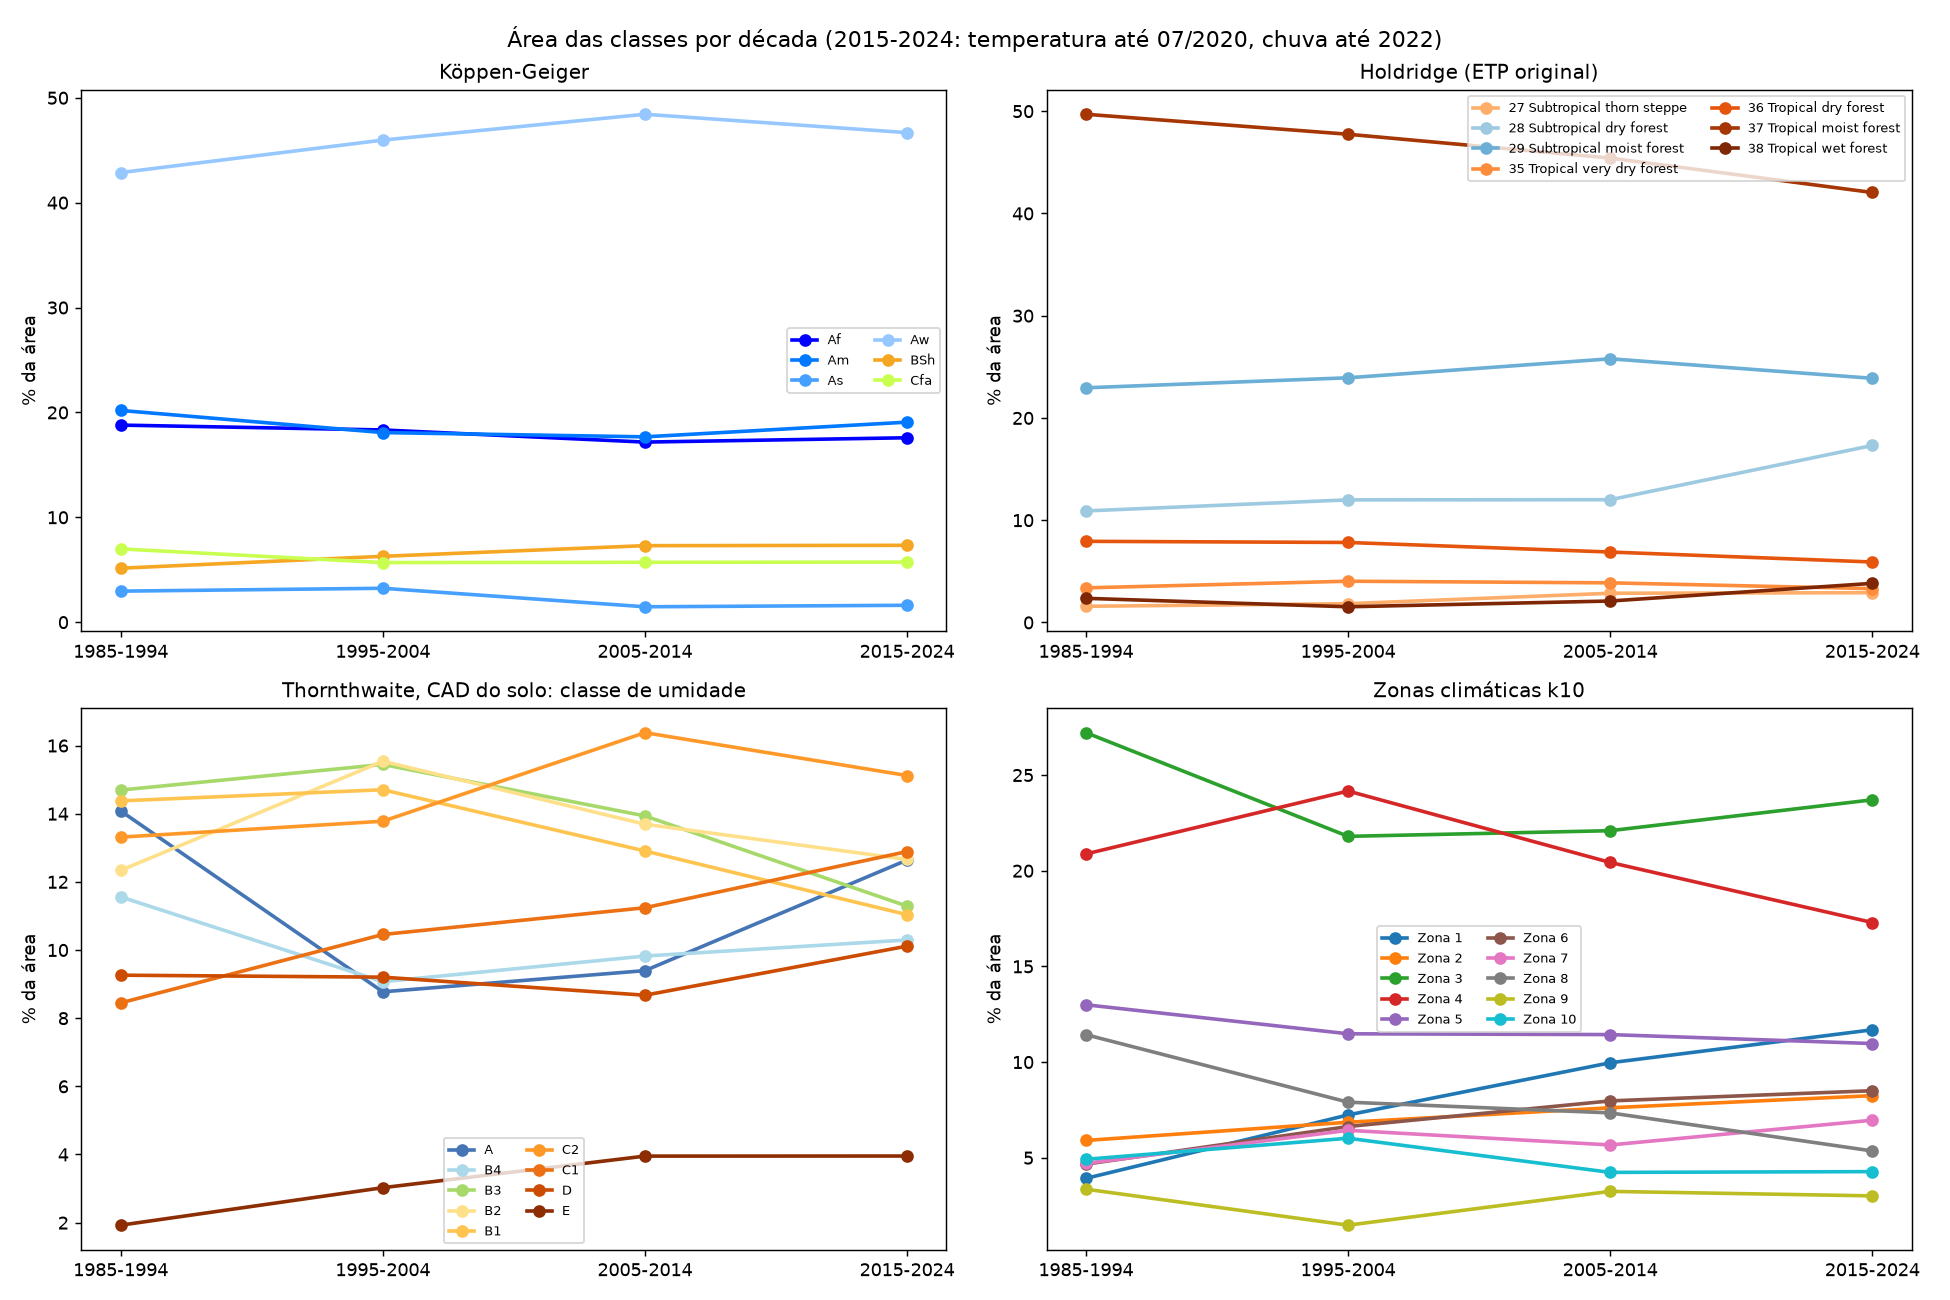
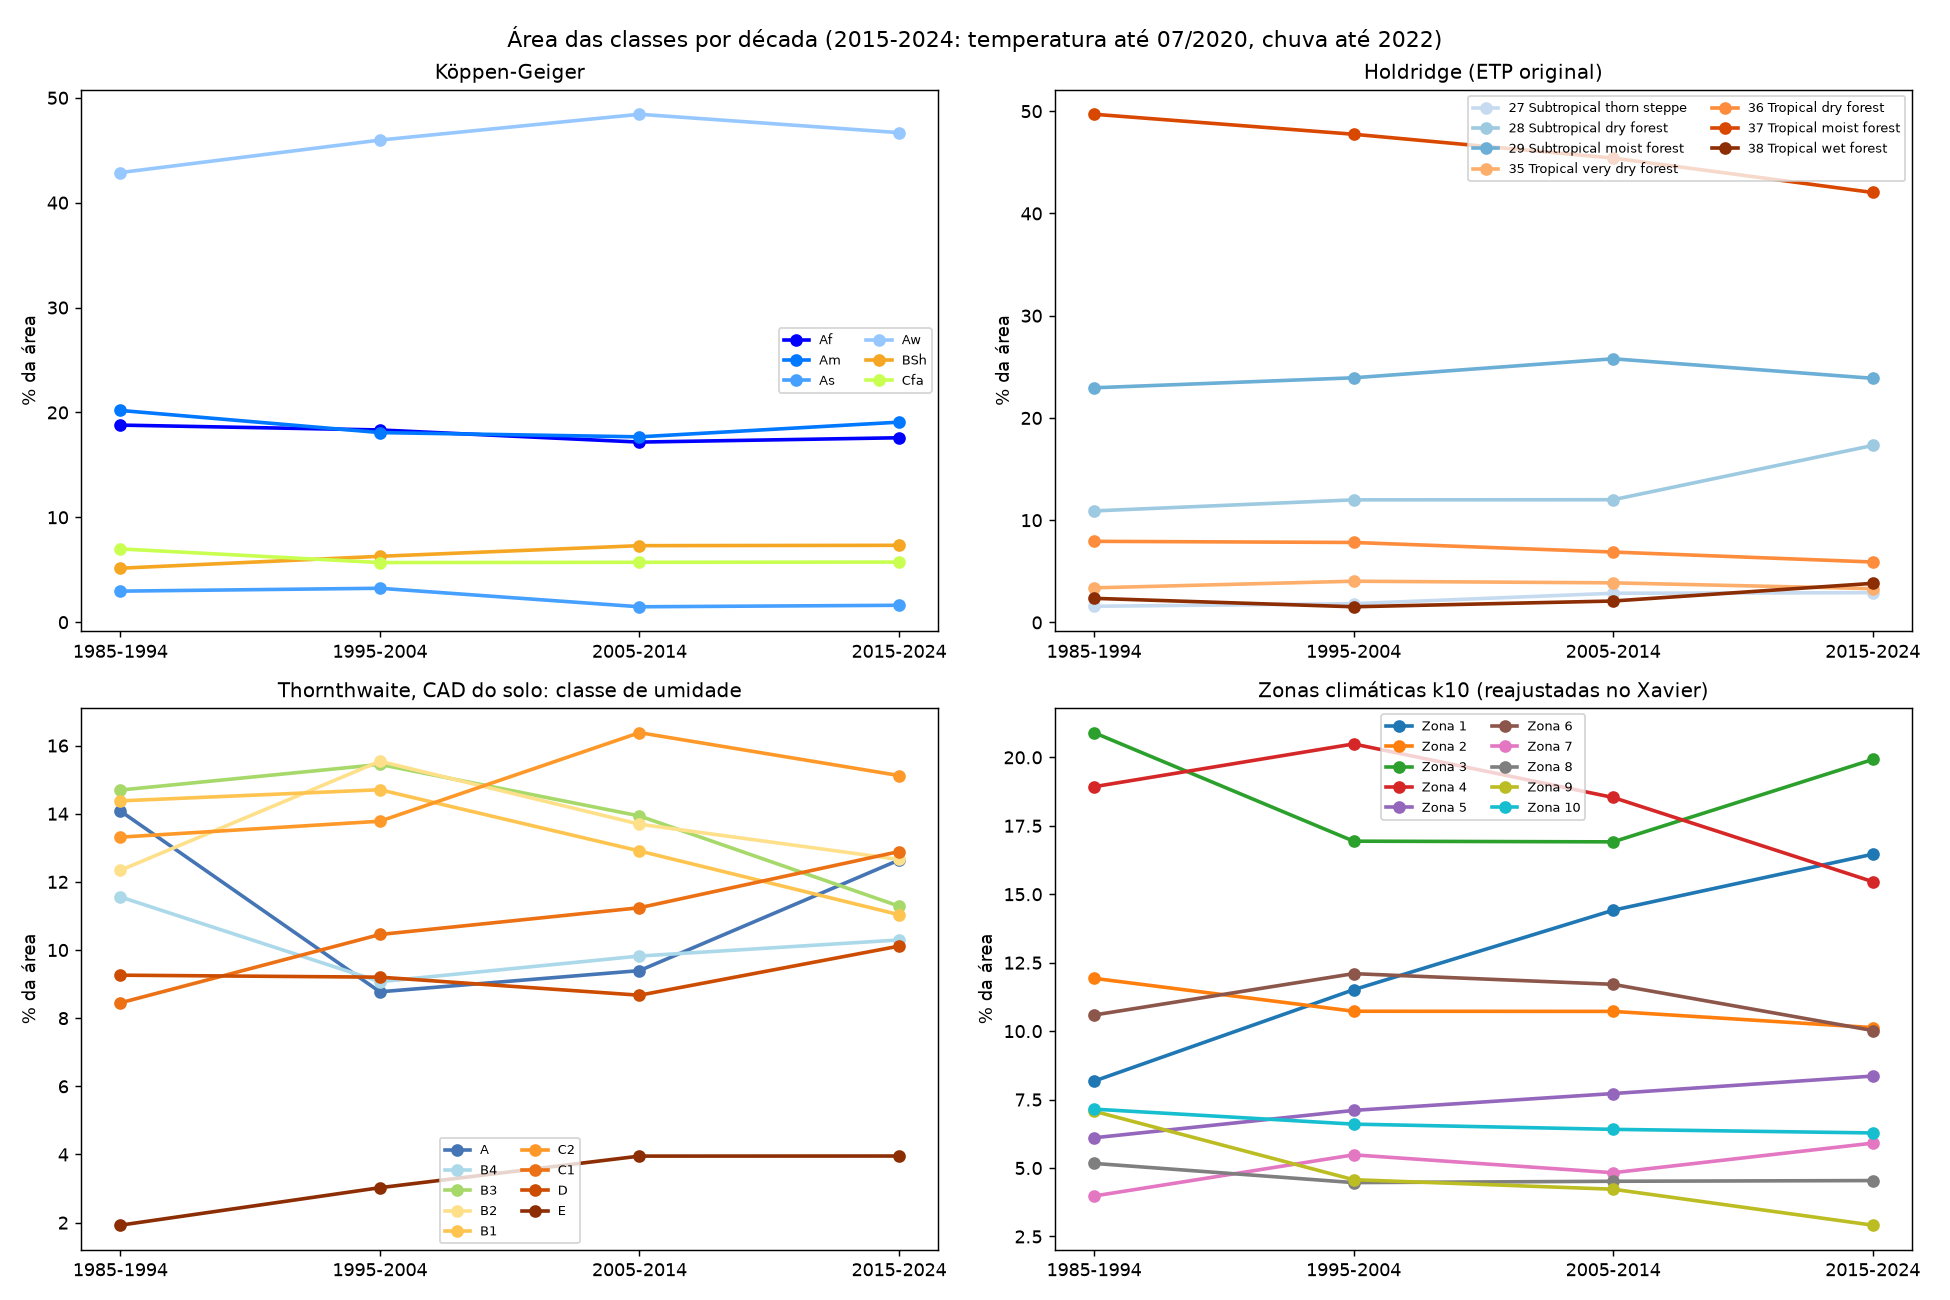
climas_tempo: k10 reajustado no Xavier 1991-2020; paleta do Holdridge por faixa termica

diff --git a/climas_tempo/codigo/classificar.py b/climas_tempo/codigo/classificar.py
@@ -11,8 +11,11 @@ relatório v1, aqui estendido a todos os sistemas; a janela tem ~33 km, no CHELS
     holdridge     classificacao_holdridge_grade(T, P, lat), ETP original  -> id 1-38 (HOLDRIDGE_ZONAS_EN)
     thornthwaite  classificacao_thornthwaite_grade(P, ETo, lat, CAD do solo) -> umidade (1-9) e subtipo (1-10);
                   código L2 = 100 x umidade + subtipo
-    k10           centróides de corelacao/codigo/zonas_clima.py nas 9 variáveis do clima contínuo
-                  (T, P, ETo e balanço hídrico com CAD 100, como no relatório v1)
+    k10           zonas climáticas homogêneas reajustadas no Xavier (decisão do usuário): k-means com k = 10
+                  nas mesmas 9 variáveis e transformações do relatório v1 (corelacao/codigo/zonas_clima.py),
+                  ajustado na normal 1991-2020 do Xavier com peso pela área (cos da latitude), zonas numeradas
+                  da mais quente para a mais fria; depois cada década recebe a zona do centróide mais próximo.
+                  Centróides em climas_tempo/resultados/tabelas/zonas_k10_xavier_*.csv
 CAD do solo: AWC (mm/m, 1 m de solo) do relatório v1 (climas/dados_chelsa/awc), média em cada pixel de 0,1°.
 
 Saídas (fora do git), em climas_tempo/dados/:
@@ -33,6 +36,7 @@ import rasterio
 from rasterio.enums import Resampling
 from rasterio.transform import Affine
 from rasterio.warp import reproject
+from sklearn.cluster import KMeans
 
 from agrometeorologiapy.classificacao_climatica import (classificacao_holdridge_grade, classificacao_koppen_grade,
                                                         classificacao_thornthwaite_grade)
@@ -46,6 +50,7 @@ MENSAL = DADOS / 'xavier_mensal'
 AWC = RAIZ / 'climas' / 'dados_chelsa' / 'awc' / 'AWC_BR_grade_CHELSA.tif'
 ANOS_DADOS = range(1961, 2023)
 DECADAS = [(1985, 1994), (1995, 2004), (2005, 2014), (2015, 2024)]
+TAB = RAIZ / 'climas_tempo' / 'resultados' / 'tabelas'
 
 
 def carregar():
@@ -95,6 +100,39 @@ def moda3x3(cls, valido):
     return np.where(valido & (cls > 0), out, 0).astype(cls.dtype)
 
 
+def continuas(T, P, E, lat):
+    """As 9 variáveis das zonas k10 (balanço hídrico com CAD 100, como no relatório v1)."""
+    b100 = classificacao_thornthwaite_grade(P, E, lat, CAD=100.0)
+    return {
+        'clim_t_media': T.mean(0), 'clim_t_mes_frio': T.min(0), 'clim_p_anual': P.sum(0),
+        'clim_p_mes_seco': P.min(0),
+        'clim_p_sazonalidade': P.std(0) / np.maximum(P.mean(0), 1e-6),
+        'clim_etp_anual': E.sum(0), 'clim_def_anual': b100['DEF_anual'], 'clim_exc_anual': b100['EXC_anual'],
+        'clim_im': b100['Im'],
+    }
+
+
+def ajustar_k10(cont, lat, k=10, semente=2026):
+    """k-means como em zonas_clima.ajustar, com peso pela área (cos da latitude) no lugar da amostragem."""
+    df = pd.DataFrame({c: v.ravel() for c, v in cont.items()})
+    ok = df.notna().all(axis=1).to_numpy()
+    x = zc.transformar(df[ok])
+    media, dp = x.mean(), x.std()
+    km = KMeans(n_clusters=k, n_init=10, random_state=semente).fit(
+        ((x - media) / dp).to_numpy(), sample_weight=np.cos(np.radians(lat.ravel()[ok])))
+    cent = pd.DataFrame(km.cluster_centers_ * dp.to_numpy() + media.to_numpy(), columns=zc.VARIAVEIS_ZONA)
+    cent = cent.iloc[np.argsort(-cent.clim_t_media.to_numpy())].reset_index(drop=True)
+    cent.index = np.arange(1, k + 1)
+    cent.index.name = 'zona'
+    TAB.mkdir(parents=True, exist_ok=True)
+    fisico = cent.copy()
+    for c in zc.EM_LOG:
+        fisico[c] = np.expm1(fisico[c])
+    fisico.to_csv(TAB / f'zonas_k{k}_xavier_centroides.csv', float_format='%.4g')
+    pd.DataFrame({'media': media, 'dp': dp}).to_csv(TAB / f'zonas_k{k}_xavier_padronizacao.csv')
+    return cent, media, dp
+
+
 def classificar(T, P, E, lat, cad, valido, centroides):
     """As quatro classificações de uma normal (12, H, W)."""
     T, P, E = (np.where(valido, x, np.nan) for x in (T, P, E))
@@ -103,14 +141,7 @@ def classificar(T, P, E, lat, cad, valido, centroides):
     th = classificacao_thornthwaite_grade(P, E, lat, CAD=np.where(np.isfinite(cad), cad, np.nan))
     th_l2 = (th['umidade'].astype(np.uint16) * 100 + th['subtipo']).astype(np.uint16)
     th_l2[th['umidade'] == 0] = 0
-    b100 = classificacao_thornthwaite_grade(P, E, lat, CAD=100.0)          # balanço com CAD 100 (k10)
-    cont = {
-        'clim_t_media': T.mean(0), 'clim_t_mes_frio': T.min(0), 'clim_p_anual': P.sum(0),
-        'clim_p_mes_seco': P.min(0),
-        'clim_p_sazonalidade': P.std(0) / np.maximum(P.mean(0), 1e-6),
-        'clim_etp_anual': E.sum(0), 'clim_def_anual': b100['DEF_anual'], 'clim_exc_anual': b100['EXC_anual'],
-        'clim_im': b100['Im'],
-    }
+    cont = continuas(T, P, E, lat)
     df = pd.DataFrame({c: v.ravel() for c, v in cont.items()})
     ok = df.notna().all(axis=1).to_numpy()
     zona = np.zeros(df.shape[0], np.uint8)
@@ -126,8 +157,12 @@ def main():
     cad = cad_solo(transf, h, w)
     brasil = np.isfinite(P).all(axis=(0, 1))
     np.savez_compressed(DADOS / 'grade.npz', lat=lat, lon=lon, brasil=brasil, cad=cad)
-    centroides = zc.carregar(10)
     anos_dados = np.array(list(ANOS_DADOS))
+    # k10 reajustado na normal 1991-2020 do Xavier (T e ETo até 07/2020)
+    i91 = np.where((anos_dados >= 1991) & (anos_dados <= 2020))[0]
+    t91, p91, e91 = (np.where(brasil, normal(X, i91)[0], np.nan) for X in (T, P, E))
+    centroides = ajustar_k10(continuas(t91, p91, e91, lat), lat)
+    print('k10 reajustado no Xavier 1991-2020', flush=True)
     dec = {s: [] for s in ('koppen', 'holdridge', 'thornthwaite', 'k10')}
     n_T, n_P = [], []
     conts = {}
@@ -146,8 +181,7 @@ def main():
                         **{s: np.stack(v) for s, v in dec.items()}, **{c: np.stack(v) for c, v in conts.items()})
 
     # normal 1991-2020 (T e ETo até 07/2020): conferência com os mapas do CHELSA do relatório v1
-    idx = np.where((anos_dados >= 1991) & (anos_dados <= 2020))[0]
-    cls, _ = classificar(normal(T, idx)[0], normal(P, idx)[0], normal(E, idx)[0], lat, cad, brasil, centroides)
+    cls, _ = classificar(t91, p91, e91, lat, cad, brasil, centroides)
     np.savez_compressed(DADOS / 'classes_1991_2020.npz', **cls)
     print('normal 1991-2020 ok', flush=True)
 

diff --git a/climas_tempo/codigo/mapas.py b/climas_tempo/codigo/mapas.py
@@ -8,7 +8,8 @@ Figuras (climas_tempo/resultados/figuras/):
 Tabelas (climas_tempo/resultados/tabelas/): area_classes_decadas.csv, mudancas.csv, conferencia_chelsa.csv
 
 Todas as classificações com filtro de moda 3 x 3 (classificar.py). Na conferência, os mapas do v1 só têm o
-filtro no Holdridge.
+filtro no Holdridge; o k10 do Xavier (reajustado) é comparado ao do CHELSA após o melhor pareamento
+de zonas.
 Thornthwaite nas figuras: classe de umidade (L1); nas tabelas de mudança, também o L2 (umidade + subtipo).
 Área: pixels de 0,1° ponderados por cos(latitude).
 
@@ -41,11 +42,17 @@ PAL_KOPPEN = ["#0000FF", "#0078FF", "#46A0FF", "#96C8FF", "#F5A623", "#FFDA8C", 
               "#C8FF50", "#64FF50", "#32C800", "#FFFF00", "#C8C800", "#969600", "#C8FFC8", "#96FF96",
               "#64C864", "#B4A0FA", "#8C78F0", "#6450E6", "#3C2CB4", "#E0C8FF", "#C8A0FF", "#B478FF",
               "#9650FF", "#D2D2FF", "#AAAAFF", "#8282FF", "#5A5AFF", "#B4B4B4", "#696969"]
-PAL_HOLDRIDGE = ['#4d4d4d', '#6b6b6b', '#8a8a8a', '#a8a8a8', '#bdbdbd', '#c7e9c0', '#a1d99b', '#74c476',
-                 '#fdd0a2', '#fdae6b', '#31a354', '#238b45', '#006d2c', '#fdd49e', '#fdbb84', '#9ecae1',
-                 '#6baed6', '#3182bd', '#fee8c8', '#fdbb84', '#fdd0a2', '#9ecae1', '#6baed6', '#3182bd',
-                 '#fef0d9', '#fdcc8a', '#fdae6b', '#9ecae1', '#6baed6', '#3182bd', '#fef0d9', '#fdd49e',
-                 '#fdbb84', '#fdae6b', '#fd8d3c', '#e6550d', '#a63603', '#7f2704']
+# Holdridge: uma família de cores por faixa térmica (a paleta do relatório v1 repetia os azuis entre
+# temperado quente e subtropical). Desertos e estepes em tons claros; florestas do seco ao pluvial.
+PAL_HOLDRIDGE = [
+    '#ffffff', '#e5e5e5',                                                    # 1-2 polar
+    '#d9d9d9', '#bdbdbd', '#969696', '#737373',                              # 3-6 subpolar
+    '#efedf5', '#dadaeb', '#bcbddc', '#9e9ac8', '#756bb1',                   # 7-11 boreal
+    '#f7f4f9', '#e7e1ef', '#d4b9da', '#c994c7', '#df65b0', '#ce1256',        # 12-17 temperado frio
+    '#f7fcb9', '#d9f0a3', '#addd8e', '#78c679', '#41ab5d', '#238443', '#005a32',   # 18-24 temperado quente
+    '#f7fbff', '#deebf7', '#c6dbef', '#9ecae1', '#6baed6', '#3182bd', '#08519c',   # 25-31 subtropical
+    '#fff5eb', '#fee6ce', '#fdd0a2', '#fdae6b', '#fd8d3c', '#d94801', '#8c2d04',   # 32-38 tropical
+]
 PAL_UMIDADE = ["#4575b4", "#abd9e9", "#a6d96a", "#fee08b", "#fec44f", "#fe9929", "#ec7014", "#cc4c02",
                "#8c2d04"]
 PAL_K10 = [plt.cm.tab10(i) for i in range(10)]
@@ -55,7 +62,8 @@ SISTEMAS = {   # nome: (rótulo, legenda {código: texto}, paleta, função que 
     'holdridge': ('Holdridge (ETP original)', {k: f'{k} {v}' for k, v in HOLDRIDGE_ZONAS_EN.items()},
                   PAL_HOLDRIDGE, lambda x: x),
     'thornthwaite': ('Thornthwaite, CAD do solo: classe de umidade', TH_UMIDADE, PAL_UMIDADE, lambda x: x // 100),
-    'k10': ('Zonas climáticas k10', {k: f'Zona {k}' for k in range(1, 11)}, PAL_K10, lambda x: x),
+    'k10': ('Zonas climáticas k10 (reajustadas no Xavier)', {k: f'Zona {k}' for k in range(1, 11)},
+            PAL_K10, lambda x: x),
 }
 
 
@@ -167,6 +175,13 @@ def conferencia(n91, g, peso, ext):
                       dst_crs='EPSG:4326', resampling=Resampling.mode, src_nodata=0, dst_nodata=0)
         x = SISTEMAS[nome][3](n91[nome])
         ok = (x > 0) & (dst > 0)
+        if nome == 'k10':
+            # zonas reajustadas no Xavier têm numeração própria: compara após o melhor pareamento de zonas
+            from scipy.optimize import linear_sum_assignment
+            tab = pd.crosstab(pd.Series(dst[ok]), pd.Series(x[ok]), values=peso[ok], aggfunc='sum').fillna(0)
+            lin, col = linear_sum_assignment(-tab.to_numpy())
+            par = dict(zip(tab.columns[col], tab.index[lin]))
+            x = np.vectorize(lambda z: par.get(z, 0))(x).astype(x.dtype)
         igual = 100 * peso[ok & (x == dst)].sum() / peso[ok].sum()
         linhas.append({'sistema': nome, 'concordancia_area_pct': igual, 'pixels_comparados': int(ok.sum())})
         pares[nome] = (dst, x)
